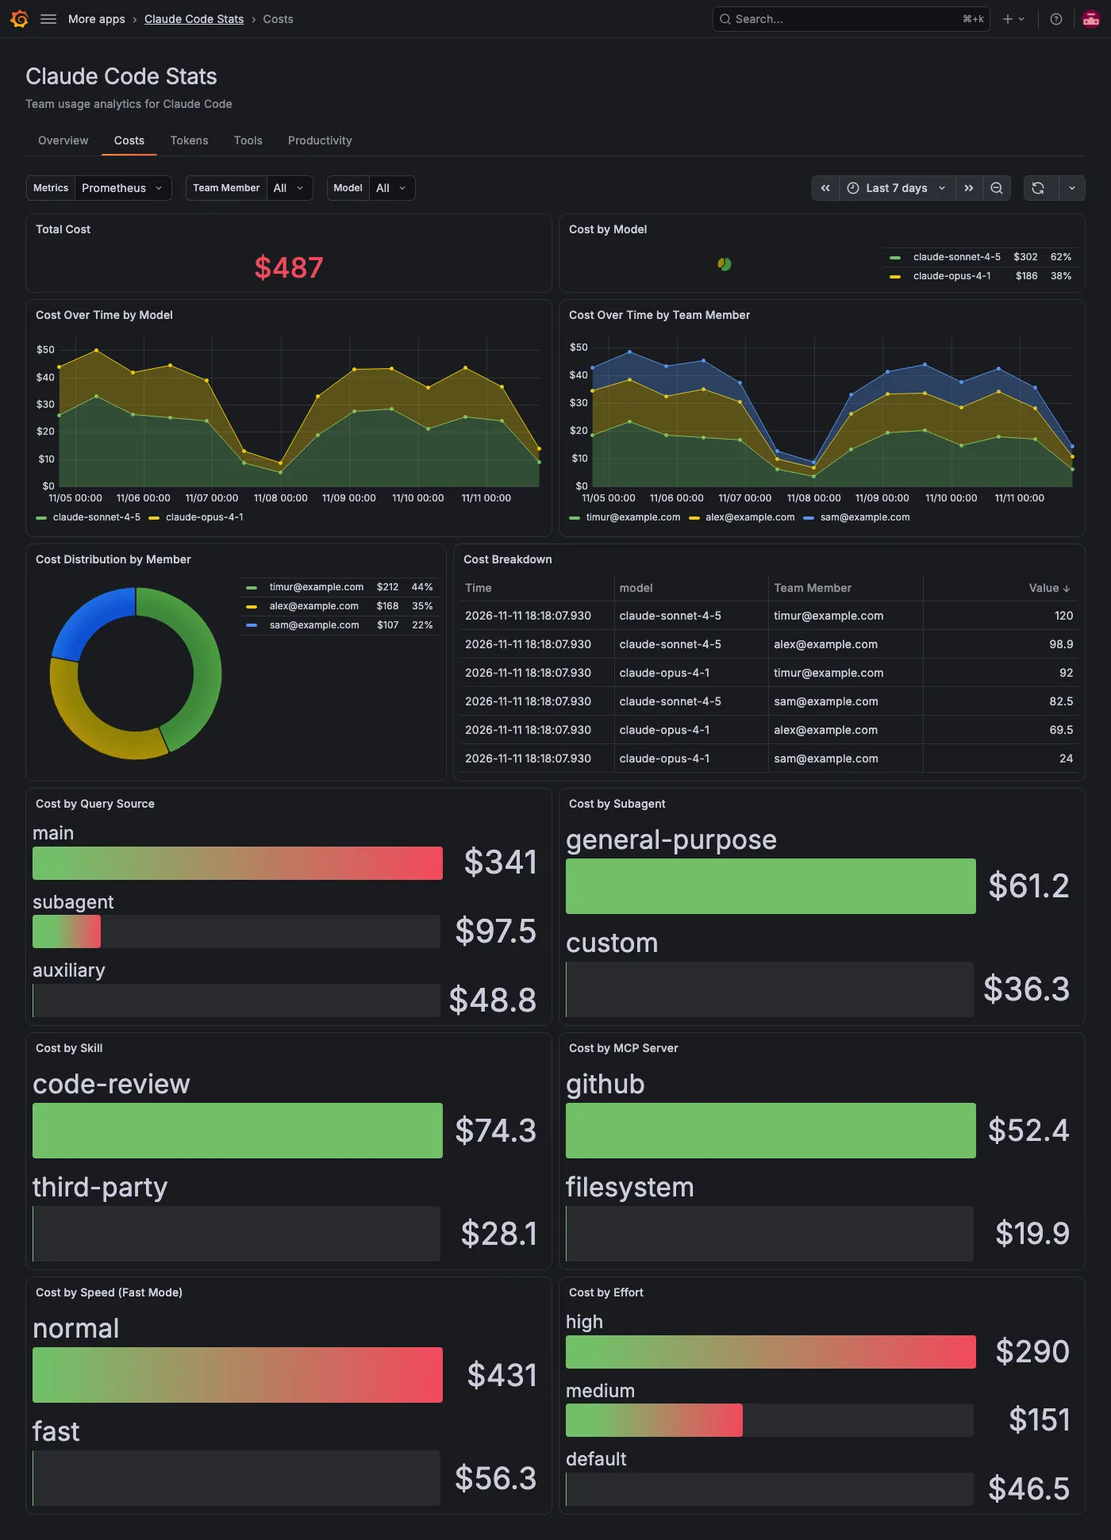
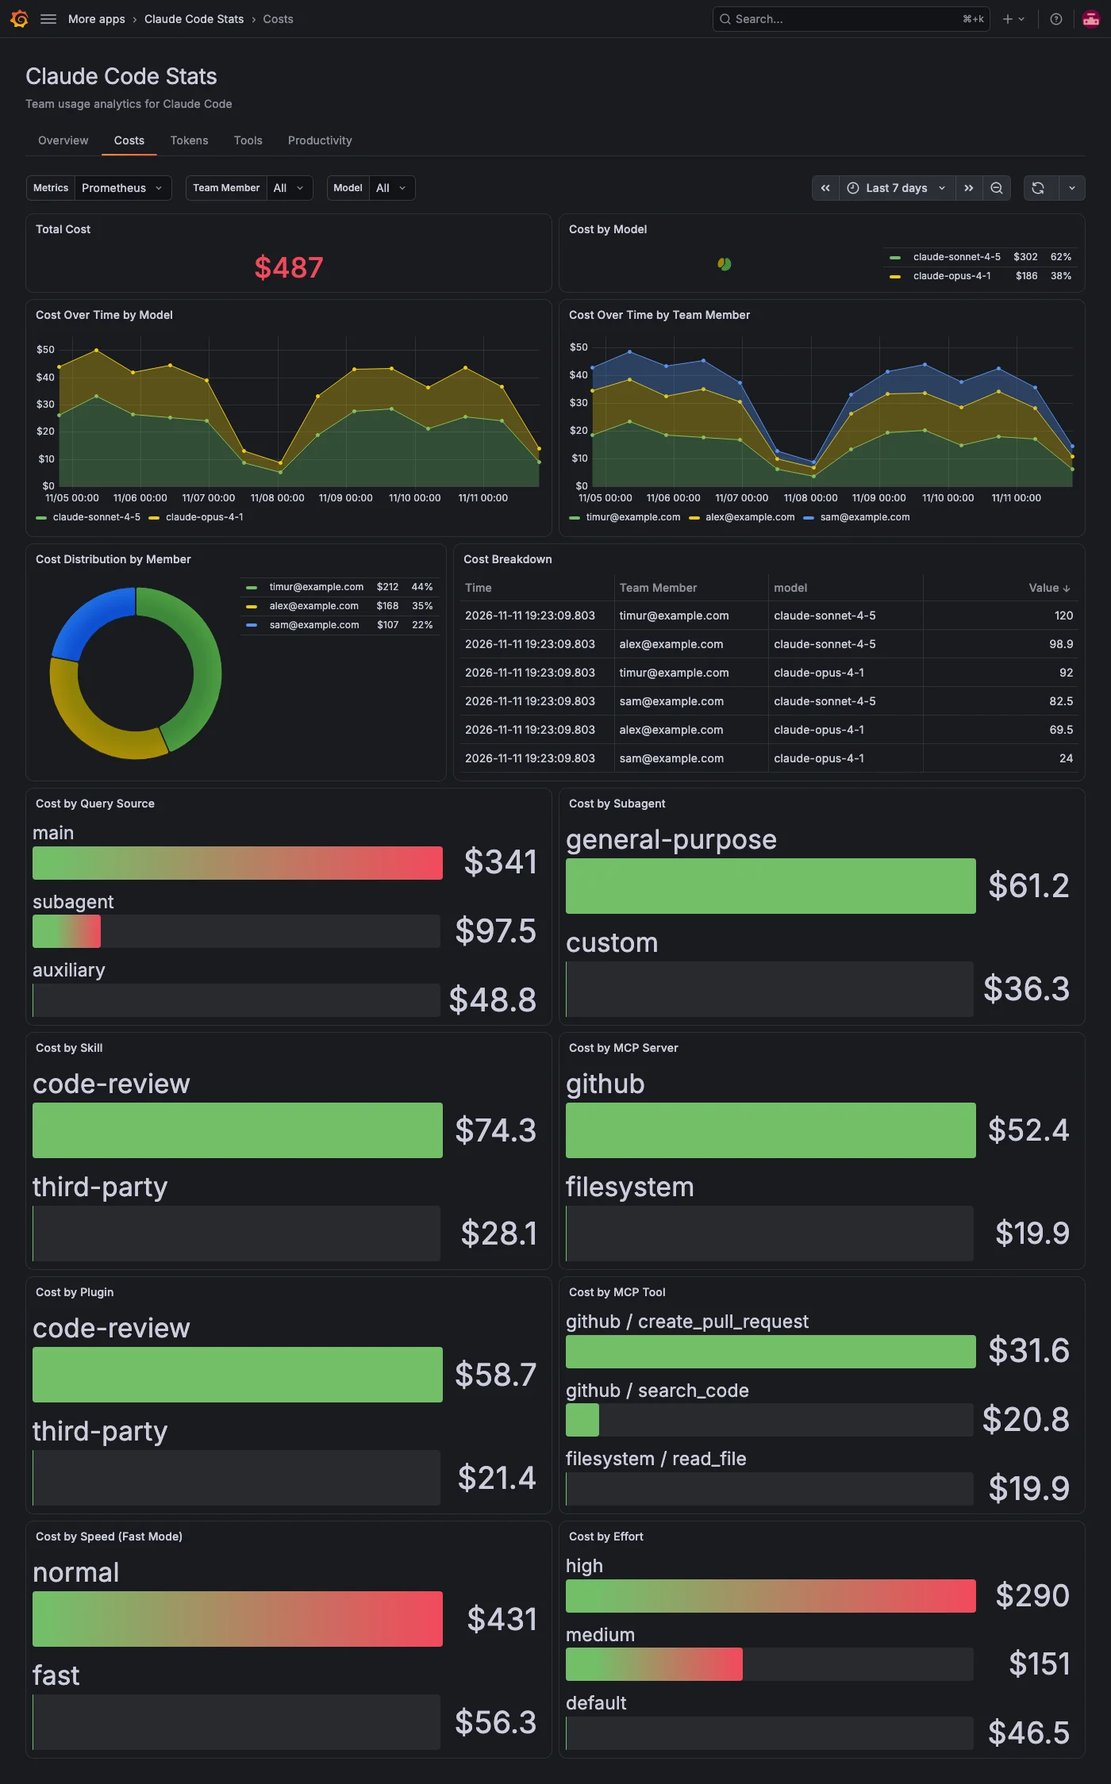
feat: cost and tokens by plugin and MCP tool (#60) (#71)
Add Cost/Tokens by Plugin (plugin_name) and Cost/Tokens by MCP Tool
(mcp_server_name / mcp_tool_name) bar gauges to the Costs and Tokens tabs,
using the same sort_desc + non-empty-label pattern as the other attribution
panels. Mocks, e2e tests, docs and the two tab screenshots are updated.

diff --git a/tests/mocks/prometheus.ts b/tests/mocks/prometheus.ts
@@ -47,6 +47,14 @@ export const QUERY_SOURCES = ['main', 'subagent', 'auxiliary'] as const;
 export const AGENTS = ['general-purpose', 'custom'] as const;
 export const SKILLS = ['code-review', 'third-party'] as const;
 export const MCP_SERVERS = ['github', 'filesystem'] as const;
+export const PLUGINS = ['code-review', 'third-party'] as const;
+// MCP tool bars are labelled `<server> / <tool>`.
+export const MCP_TOOLS = [
+  { server: 'github', tool: 'create_pull_request' },
+  { server: 'github', tool: 'search_code' },
+  { server: 'filesystem', tool: 'read_file' },
+] as const;
+export const mcpToolLabel = (t: { server: string; tool: string }) => `${t.server} / ${t.tool}`;
 // `normal` and `default` are the buckets the queries fold absent labels into.
 export const SPEEDS = ['normal', 'fast'] as const;
 export const EFFORTS = ['high', 'medium', 'default'] as const;
@@ -81,6 +89,9 @@ const COST = {
   byAgent: { 'general-purpose': 61.2, custom: 36.25 },
   bySkill: { 'code-review': 74.3, 'third-party': 28.1 },
   byMcpServer: { github: 52.4, filesystem: 19.85 },
+  // Same MCP spend split per tool (github 52.4, filesystem 19.85).
+  byMcpTool: [31.6, 20.8, 19.85],
+  byPlugin: { 'code-review': 58.7, 'third-party': 21.4 },
   bySpeed: { normal: 431.0, fast: 56.25 },
   byEffort: { high: 289.5, medium: 151.25, default: 46.5 },
   byOsType: { darwin: 381.25, linux: 106.0 },
@@ -98,6 +109,8 @@ const TOKENS = {
   byAgent: { 'general-purpose': 23.4 * M, custom: 13.88 * M },
   bySkill: { 'code-review': 28.6 * M, 'third-party': 10.9 * M },
   byMcpServer: { github: 19.7 * M, filesystem: 7.45 * M },
+  byMcpTool: [11.9 * M, 7.8 * M, 7.45 * M],
+  byPlugin: { 'code-review': 22.1 * M, 'third-party': 8.3 * M },
   bySpeed: { normal: 165.02 * M, fast: 21.4 * M },
   byEffort: { high: 110.8 * M, medium: 57.82 * M, default: 17.8 * M },
 };
@@ -166,6 +179,8 @@ interface FieldSpec {
   name: string;
   type: FieldType;
   labels?: Record<string, string>;
+  // Series name the Prometheus backend sets from a multi-label `legendFormat`.
+  displayNameFromDS?: string;
   values: Array<number | string>;
 }
 
@@ -185,6 +200,7 @@ function makeFrame(refId: string, fields: FieldSpec[], meta?: Record<string, unk
         type: f.type,
         typeInfo: TYPE_INFO[f.type],
         ...(f.labels ? { labels: f.labels } : {}),
+        ...(f.displayNameFromDS ? { config: { displayNameFromDS: f.displayNameFromDS } } : {}),
       })),
     },
     data: { values: fields.map((f) => f.values) },
@@ -257,6 +273,22 @@ function rangeSeriesFrames(
   );
 }
 
+// One instant value per MCP tool, labelled with its server and tool name.
+function mcpToolFrames(refId: string, values: readonly number[]) {
+  return MCP_TOOLS.map((t, i) =>
+    makeFrame(refId, [
+      { name: 'Time', type: 'time', values: [0] },
+      {
+        name: 'Value',
+        type: 'number',
+        labels: { mcp_server_name: t.server, mcp_tool_name: t.tool },
+        displayNameFromDS: mcpToolLabel(t),
+        values: [values[i]],
+      },
+    ])
+  );
+}
+
 // Prometheus "table" format: the frontend transform expands the Value field's
 // `labels` into columns, so each row must be its own single-value frame with
 // the labels attached (NOT separate string columns).
@@ -300,6 +332,8 @@ const DATASET: Record<string, FrameBuilder> = {
   CostByAgent: (id) => instantSeriesFrames(id, 'agent_name', COST.byAgent),
   CostBySkill: (id) => instantSeriesFrames(id, 'skill_name', COST.bySkill),
   CostByMcpServer: (id) => instantSeriesFrames(id, 'mcp_server_name', COST.byMcpServer),
+  CostByMcpTool: (id) => mcpToolFrames(id, COST.byMcpTool),
+  CostByPlugin: (id) => instantSeriesFrames(id, 'plugin_name', COST.byPlugin),
   CostBySpeed: (id) => instantSeriesFrames(id, 'speed', COST.bySpeed),
   CostByEffort: (id) => instantSeriesFrames(id, 'effort', COST.byEffort),
 
@@ -315,6 +349,8 @@ const DATASET: Record<string, FrameBuilder> = {
   TokensByAgent: (id) => instantSeriesFrames(id, 'agent_name', TOKENS.byAgent),
   TokensBySkill: (id) => instantSeriesFrames(id, 'skill_name', TOKENS.bySkill),
   TokensByMcpServer: (id) => instantSeriesFrames(id, 'mcp_server_name', TOKENS.byMcpServer),
+  TokensByMcpTool: (id) => mcpToolFrames(id, TOKENS.byMcpTool),
+  TokensByPlugin: (id) => instantSeriesFrames(id, 'plugin_name', TOKENS.byPlugin),
   TokensBySpeed: (id) => instantSeriesFrames(id, 'speed', TOKENS.bySpeed),
   TokensByEffort: (id) => instantSeriesFrames(id, 'effort', TOKENS.byEffort),
 

diff --git a/src/scenes/queries.ts b/src/scenes/queries.ts
@@ -92,6 +92,12 @@ function buildQueries(m: MetricNames) {
     /** Cost by MCP server; only series that carry the label */
     costByMcpServer: `sort_desc(sum by (${LABELS.MCP_SERVER_NAME}) (${scoped('increase', m.COST_USAGE, '$__range', `${LABELS.MODEL}=~"$model", ${LABELS.MCP_SERVER_NAME}=~".+"`)}))`,
 
+    /** Cost by MCP tool, per server (only requests that consumed an MCP tool result) */
+    costByMcpTool: `sort_desc(sum by (${LABELS.MCP_SERVER_NAME}, ${LABELS.MCP_TOOL_NAME}) (${scoped('increase', m.COST_USAGE, '$__range', `${LABELS.MODEL}=~"$model", ${LABELS.MCP_TOOL_NAME}=~".+"`)}))`,
+
+    /** Cost by plugin that owns the active skill or subagent (third-party plugins collapse to "third-party") */
+    costByPlugin: `sort_desc(sum by (${LABELS.PLUGIN_NAME}) (${scoped('increase', m.COST_USAGE, '$__range', `${LABELS.MODEL}=~"$model", ${LABELS.PLUGIN_NAME}=~".+"`)}))`,
+
     /** Cost by speed; absent label (normal requests) folds into the "normal" bucket */
     costBySpeed: `sort_desc(sum by (${LABELS.SPEED}) (label_replace(${scoped('increase', m.COST_USAGE, '$__range', `${LABELS.MODEL}=~"$model"`)}, "${LABELS.SPEED}", "normal", "${LABELS.SPEED}", "^$")))`,
 
@@ -138,6 +144,12 @@ function buildQueries(m: MetricNames) {
 
     /** Tokens by MCP server; only series that carry the label */
     tokensByMcpServer: `sort_desc(sum by (${LABELS.MCP_SERVER_NAME}) (${scoped('increase', m.TOKEN_USAGE, '$__range', `${LABELS.MODEL}=~"$model", ${LABELS.MCP_SERVER_NAME}=~".+"`)}))`,
+
+    /** Tokens by MCP tool, per server (only requests that consumed an MCP tool result) */
+    tokensByMcpTool: `sort_desc(sum by (${LABELS.MCP_SERVER_NAME}, ${LABELS.MCP_TOOL_NAME}) (${scoped('increase', m.TOKEN_USAGE, '$__range', `${LABELS.MODEL}=~"$model", ${LABELS.MCP_TOOL_NAME}=~".+"`)}))`,
+
+    /** Tokens by plugin that owns the active skill or subagent (third-party plugins collapse to "third-party") */
+    tokensByPlugin: `sort_desc(sum by (${LABELS.PLUGIN_NAME}) (${scoped('increase', m.TOKEN_USAGE, '$__range', `${LABELS.MODEL}=~"$model", ${LABELS.PLUGIN_NAME}=~".+"`)}))`,
 
     /** Tokens by speed; absent label (normal requests) folds into the "normal" bucket */
     tokensBySpeed: `sort_desc(sum by (${LABELS.SPEED}) (label_replace(${scoped('increase', m.TOKEN_USAGE, '$__range', `${LABELS.MODEL}=~"$model"`)}, "${LABELS.SPEED}", "normal", "${LABELS.SPEED}", "^$")))`,

diff --git a/src/scenes/pages/TokensScene.ts b/src/scenes/pages/TokensScene.ts
@@ -29,10 +29,17 @@ import { PANEL_HEIGHTS } from '../../constants';
  * first); `legendFormat` names each series after `labelKey`, and
  * `${__series.name}` surfaces that name as the bar label.
  */
-function attributionBarGauge(refId: string, expr: string, labelKey: string, title: string, unit: string) {
+function attributionBarGauge(
+  refId: string,
+  expr: string,
+  labelKey: string,
+  title: string,
+  unit: string,
+  legendFormat = `{{${labelKey}}}`
+) {
   const data = new SceneQueryRunner({
     datasource: { type: 'prometheus', uid: '${prometheus_ds}' },
-    queries: [{ refId, expr, legendFormat: `{{${labelKey}}}`, instant: true }],
+    queries: [{ refId, expr, legendFormat, instant: true }],
   });
 
   return PanelBuilders.bargauge()
@@ -318,7 +325,35 @@ export function getTokensScene(
             }),
           ],
         }),
-        // Row 6: Token attribution by speed (fast mode) and effort
+        // Row 6: Token attribution by plugin and MCP tool
+        new SceneFlexLayout({
+          direction: 'row',
+          height: PANEL_HEIGHTS.LARGE,
+          children: [
+            new SceneFlexItem({
+              width: '50%',
+              body: attributionBarGauge(
+                'TokensByPlugin',
+                queries.tokensByPlugin,
+                'plugin_name',
+                'Tokens by Plugin',
+                'short'
+              ),
+            }),
+            new SceneFlexItem({
+              width: '50%',
+              body: attributionBarGauge(
+                'TokensByMcpTool',
+                queries.tokensByMcpTool,
+                'mcp_tool_name',
+                'Tokens by MCP Tool',
+                'short',
+                '{{mcp_server_name}} / {{mcp_tool_name}}'
+              ),
+            }),
+          ],
+        }),
+        // Row 7: Token attribution by speed (fast mode) and effort
         new SceneFlexLayout({
           direction: 'row',
           height: PANEL_HEIGHTS.LARGE,

diff --git a/src/scenes/pages/CostsScene.ts b/src/scenes/pages/CostsScene.ts
@@ -29,10 +29,17 @@ import { PANEL_HEIGHTS } from '../../constants';
  * first); `legendFormat` names each series after `labelKey`, and
  * `${__series.name}` surfaces that name as the bar label.
  */
-function attributionBarGauge(refId: string, expr: string, labelKey: string, title: string, unit: string) {
+function attributionBarGauge(
+  refId: string,
+  expr: string,
+  labelKey: string,
+  title: string,
+  unit: string,
+  legendFormat = `{{${labelKey}}}`
+) {
   const data = new SceneQueryRunner({
     datasource: { type: 'prometheus', uid: '${prometheus_ds}' },
-    queries: [{ refId, expr, legendFormat: `{{${labelKey}}}`, instant: true }],
+    queries: [{ refId, expr, legendFormat, instant: true }],
   });
 
   return PanelBuilders.bargauge()
@@ -276,7 +283,35 @@ export function getCostsScene(
             }),
           ],
         }),
-        // Row 6: Cost attribution by speed (fast mode) and effort
+        // Row 6: Cost attribution by plugin and MCP tool
+        new SceneFlexLayout({
+          direction: 'row',
+          height: PANEL_HEIGHTS.LARGE,
+          children: [
+            new SceneFlexItem({
+              width: '50%',
+              body: attributionBarGauge(
+                'CostByPlugin',
+                queries.costByPlugin,
+                'plugin_name',
+                'Cost by Plugin',
+                'currencyUSD'
+              ),
+            }),
+            new SceneFlexItem({
+              width: '50%',
+              body: attributionBarGauge(
+                'CostByMcpTool',
+                queries.costByMcpTool,
+                'mcp_tool_name',
+                'Cost by MCP Tool',
+                'currencyUSD',
+                '{{mcp_server_name}} / {{mcp_tool_name}}'
+              ),
+            }),
+          ],
+        }),
+        // Row 7: Cost attribution by speed (fast mode) and effort
         new SceneFlexLayout({
           direction: 'row',
           height: PANEL_HEIGHTS.LARGE,

diff --git a/tests/tokens.spec.ts b/tests/tokens.spec.ts
@@ -9,6 +9,9 @@ import {
   AGENTS,
   SKILLS,
   MCP_SERVERS,
+  MCP_TOOLS,
+  PLUGINS,
+  mcpToolLabel,
   SPEEDS,
   EFFORTS,
 } from './mocks/prometheus';
@@ -76,6 +79,17 @@ test.describe('Tokens scene', () => {
     }
     for (const server of MCP_SERVERS) {
       await expect(legendItem(app, selectors, 'Tokens by MCP Server', server)).toBeVisible();
+    }
+  });
+
+  test('renders the plugin and MCP tool attribution bar gauges', async ({ mockData, gotoPage, selectors }) => {
+    const app = await gotoPage('tokens');
+
+    for (const plugin of PLUGINS) {
+      await expect(legendItem(app, selectors, 'Tokens by Plugin', plugin)).toBeVisible();
+    }
+    for (const tool of MCP_TOOLS) {
+      await expect(legendItem(app, selectors, 'Tokens by MCP Tool', mcpToolLabel(tool))).toBeVisible();
     }
   });
 

diff --git a/tests/costs.spec.ts b/tests/costs.spec.ts
@@ -8,6 +8,9 @@ import {
   AGENTS,
   SKILLS,
   MCP_SERVERS,
+  MCP_TOOLS,
+  PLUGINS,
+  mcpToolLabel,
   SPEEDS,
   EFFORTS,
 } from './mocks/prometheus';
@@ -72,6 +75,17 @@ test.describe('Costs scene', () => {
     }
     for (const server of MCP_SERVERS) {
       await expect(legendItem(app, selectors, 'Cost by MCP Server', server)).toBeVisible();
+    }
+  });
+
+  test('renders the plugin and MCP tool attribution bar gauges', async ({ mockData, gotoPage, selectors }) => {
+    const app = await gotoPage('costs');
+
+    for (const plugin of PLUGINS) {
+      await expect(legendItem(app, selectors, 'Cost by Plugin', plugin)).toBeVisible();
+    }
+    for (const tool of MCP_TOOLS) {
+      await expect(legendItem(app, selectors, 'Cost by MCP Tool', mcpToolLabel(tool))).toBeVisible();
     }
   });
 

diff --git a/src/constants.ts b/src/constants.ts
@@ -72,6 +72,8 @@ export const LABELS = {
   AGENT_NAME: 'agent_name', // subagent; user-defined collapse to "custom"
   SKILL_NAME: 'skill_name', // third-party skills collapse to "third-party"
   MCP_SERVER_NAME: 'mcp_server_name',
+  MCP_TOOL_NAME: 'mcp_tool_name', // user-configured servers' tools collapse to "custom"
+  PLUGIN_NAME: 'plugin_name', // plugin owning the active skill/subagent; third-party → "third-party"
   SPEED: 'speed', // "fast" when fast mode is active; absent on normal requests
   EFFORT: 'effort', // low, medium, high, xhigh, max; absent on models without effort
   // Environment labels

diff --git a/catalog-docs/troubleshooting.md b/catalog-docs/troubleshooting.md
@@ -44,10 +44,10 @@ These issues occur when the app loads but panels show **No data**.
 
 **Possible causes and solutions:**
 
-| Cause                                                                                                        | Solution                                                                                                                                     |
-| ------------------------------------------------------------------------------------------------------------ | -------------------------------------------------------------------------------------------------------------------------------------------- |
-| Nothing in the period used that feature, such as no subagents, skills, MCP tools, commits or edit decisions. | No action needed. The panel fills in when the feature is used.                                                                               |
-| Claude Code redacts user-defined subagent, third-party skill and user-configured MCP server names.           | Set `OTEL_LOG_TOOL_DETAILS=1` for team members. For details, refer to [Optional telemetry settings](./index.md#optional-telemetry-settings). |
+| Cause                                                                                                                   | Solution                                                                                                                                     |
+| ----------------------------------------------------------------------------------------------------------------------- | -------------------------------------------------------------------------------------------------------------------------------------------- |
+| Nothing in the period used that feature, such as no subagents, skills, MCP tools, commits or edit decisions.            | No action needed. The panel fills in when the feature is used.                                                                               |
+| Claude Code redacts user-defined subagent, third-party skill and plugin, and user-configured MCP server and tool names. | Set `OTEL_LOG_TOOL_DETAILS=1` for team members. For details, refer to [Optional telemetry settings](./index.md#optional-telemetry-settings). |
 
 ### A team member shows as a random ID
 

diff --git a/catalog-docs/index.md b/catalog-docs/index.md
@@ -93,9 +93,9 @@ When the query returns series, open the app. If it returns nothing, refer to [Tr
 
 The attribution panels need an extra Claude Code setting to show real names:
 
-| Panel                                                                                       | Claude Code setting                                                                                                                                                                  |
-| ------------------------------------------------------------------------------------------- | ------------------------------------------------------------------------------------------------------------------------------------------------------------------------------------ |
-| **Cost by Subagent**, **Cost by Skill**, **Cost by MCP Server** and their token equivalents | `OTEL_LOG_TOOL_DETAILS=1` shows the real names of user-defined subagents, third-party skills and user-configured MCP servers. Without it, those appear as `custom` or `third-party`. |
+| Panel                                                                                                                                 | Claude Code setting                                                                                                                                                                                               |
+| ------------------------------------------------------------------------------------------------------------------------------------- | ----------------------------------------------------------------------------------------------------------------------------------------------------------------------------------------------------------------- |
+| **Cost by Subagent**, **Cost by Skill**, **Cost by MCP Server**, **Cost by Plugin**, **Cost by MCP Tool** and their token equivalents | `OTEL_LOG_TOOL_DETAILS=1` shows the real names of user-defined subagents, third-party skills and plugins, and user-configured MCP servers and their tools. Without it, those appear as `custom` or `third-party`. |
 
 #### Name team members who don't sign in with a Claude account
 

diff --git a/catalog-docs/features/index.md b/catalog-docs/features/index.md
@@ -10,13 +10,13 @@ sidebar_position: 3
 
 Claude Code Stats opens from **Claude Code Stats** in the navigation menu, under **More apps**. It has five tabs. Each one answers a different question about how your team uses Claude Code:
 
-| Tab                               | Read it to                                                                    |
-| --------------------------------- | ----------------------------------------------------------------------------- |
-| [Overview](./overview.md)         | Check spend, tokens, sessions and active users at a glance.                   |
-| [Costs](./costs.md)               | See where cost goes: models, team members, subagents, skills and MCP servers. |
-| [Tokens](./tokens.md)             | See token volume by type, model and team member, and what drives it.          |
-| [Tools](./tools.md)               | Check how often team members accept Claude's file edits.                      |
-| [Productivity](./productivity.md) | Track lines of code, commits, pull requests and active time.                  |
+| Tab                               | Read it to                                                                             |
+| --------------------------------- | -------------------------------------------------------------------------------------- |
+| [Overview](./overview.md)         | Check spend, tokens, sessions and active users at a glance.                            |
+| [Costs](./costs.md)               | See where cost goes: models, team members, subagents, skills, plugins and MCP servers. |
+| [Tokens](./tokens.md)             | See token volume by type, model and team member, and what drives it.                   |
+| [Tools](./tools.md)               | Check how often team members accept Claude's file edits.                               |
+| [Productivity](./productivity.md) | Track lines of code, commits, pull requests and active time.                           |
 
 ## Filter the data
 

diff --git a/catalog-docs/features/costs.md b/catalog-docs/features/costs.md
@@ -33,10 +33,12 @@ The bar gauges attribute cost to what issued each request, largest first:
 | **Cost by Subagent**          | Which subagent type issued the request.                        |
 | **Cost by Skill**             | Which skill was active.                                        |
 | **Cost by MCP Server**        | Which MCP server's tool result the request used.               |
+| **Cost by Plugin**            | Which plugin owns the active skill or subagent.                |
+| **Cost by MCP Tool**          | Which MCP tool's result the request used, as `server / tool`.  |
 | **Cost by Speed (Fast Mode)** | `fast` for fast mode, `normal` otherwise.                      |
 | **Cost by Effort**            | The effort level, or `default` when the model doesn't use one. |
 
-**Cost by Subagent**, **Cost by Skill** and **Cost by MCP Server** show no data when no request in the period used one. User-defined subagents, third-party skills and user-configured MCP servers show as `custom` or `third-party` unless team members set `OTEL_LOG_TOOL_DETAILS=1`. For details, refer to [Optional telemetry settings](../index.md#optional-telemetry-settings).
+**Cost by Subagent**, **Cost by Skill**, **Cost by MCP Server**, **Cost by Plugin** and **Cost by MCP Tool** show no data when no request in the period used one. User-defined subagents, third-party skills and plugins, and user-configured MCP servers and their tools show as `custom` or `third-party` unless team members set `OTEL_LOG_TOOL_DETAILS=1`. For details, refer to [Optional telemetry settings](../index.md#optional-telemetry-settings).
 
 ## Filters on this tab
 

diff --git a/catalog-docs/features/tokens.md b/catalog-docs/features/tokens.md
@@ -29,7 +29,7 @@ A high share of `cacheRead` is normal. Claude Code reuses the prompt cache acros
 
 ## Find what drives token usage
 
-The bar gauges attribute tokens the same way the [Costs](./costs.md#find-what-drives-spend) tab attributes cost: **Tokens by Query Source**, **Tokens by Subagent**, **Tokens by Skill**, **Tokens by MCP Server**, **Tokens by Speed (Fast Mode)** and **Tokens by Effort**.
+The bar gauges attribute tokens the same way the [Costs](./costs.md#find-what-drives-spend) tab attributes cost: **Tokens by Query Source**, **Tokens by Subagent**, **Tokens by Skill**, **Tokens by MCP Server**, **Tokens by Plugin**, **Tokens by MCP Tool**, **Tokens by Speed (Fast Mode)** and **Tokens by Effort**.
 
 ## Filters on this tab
 
